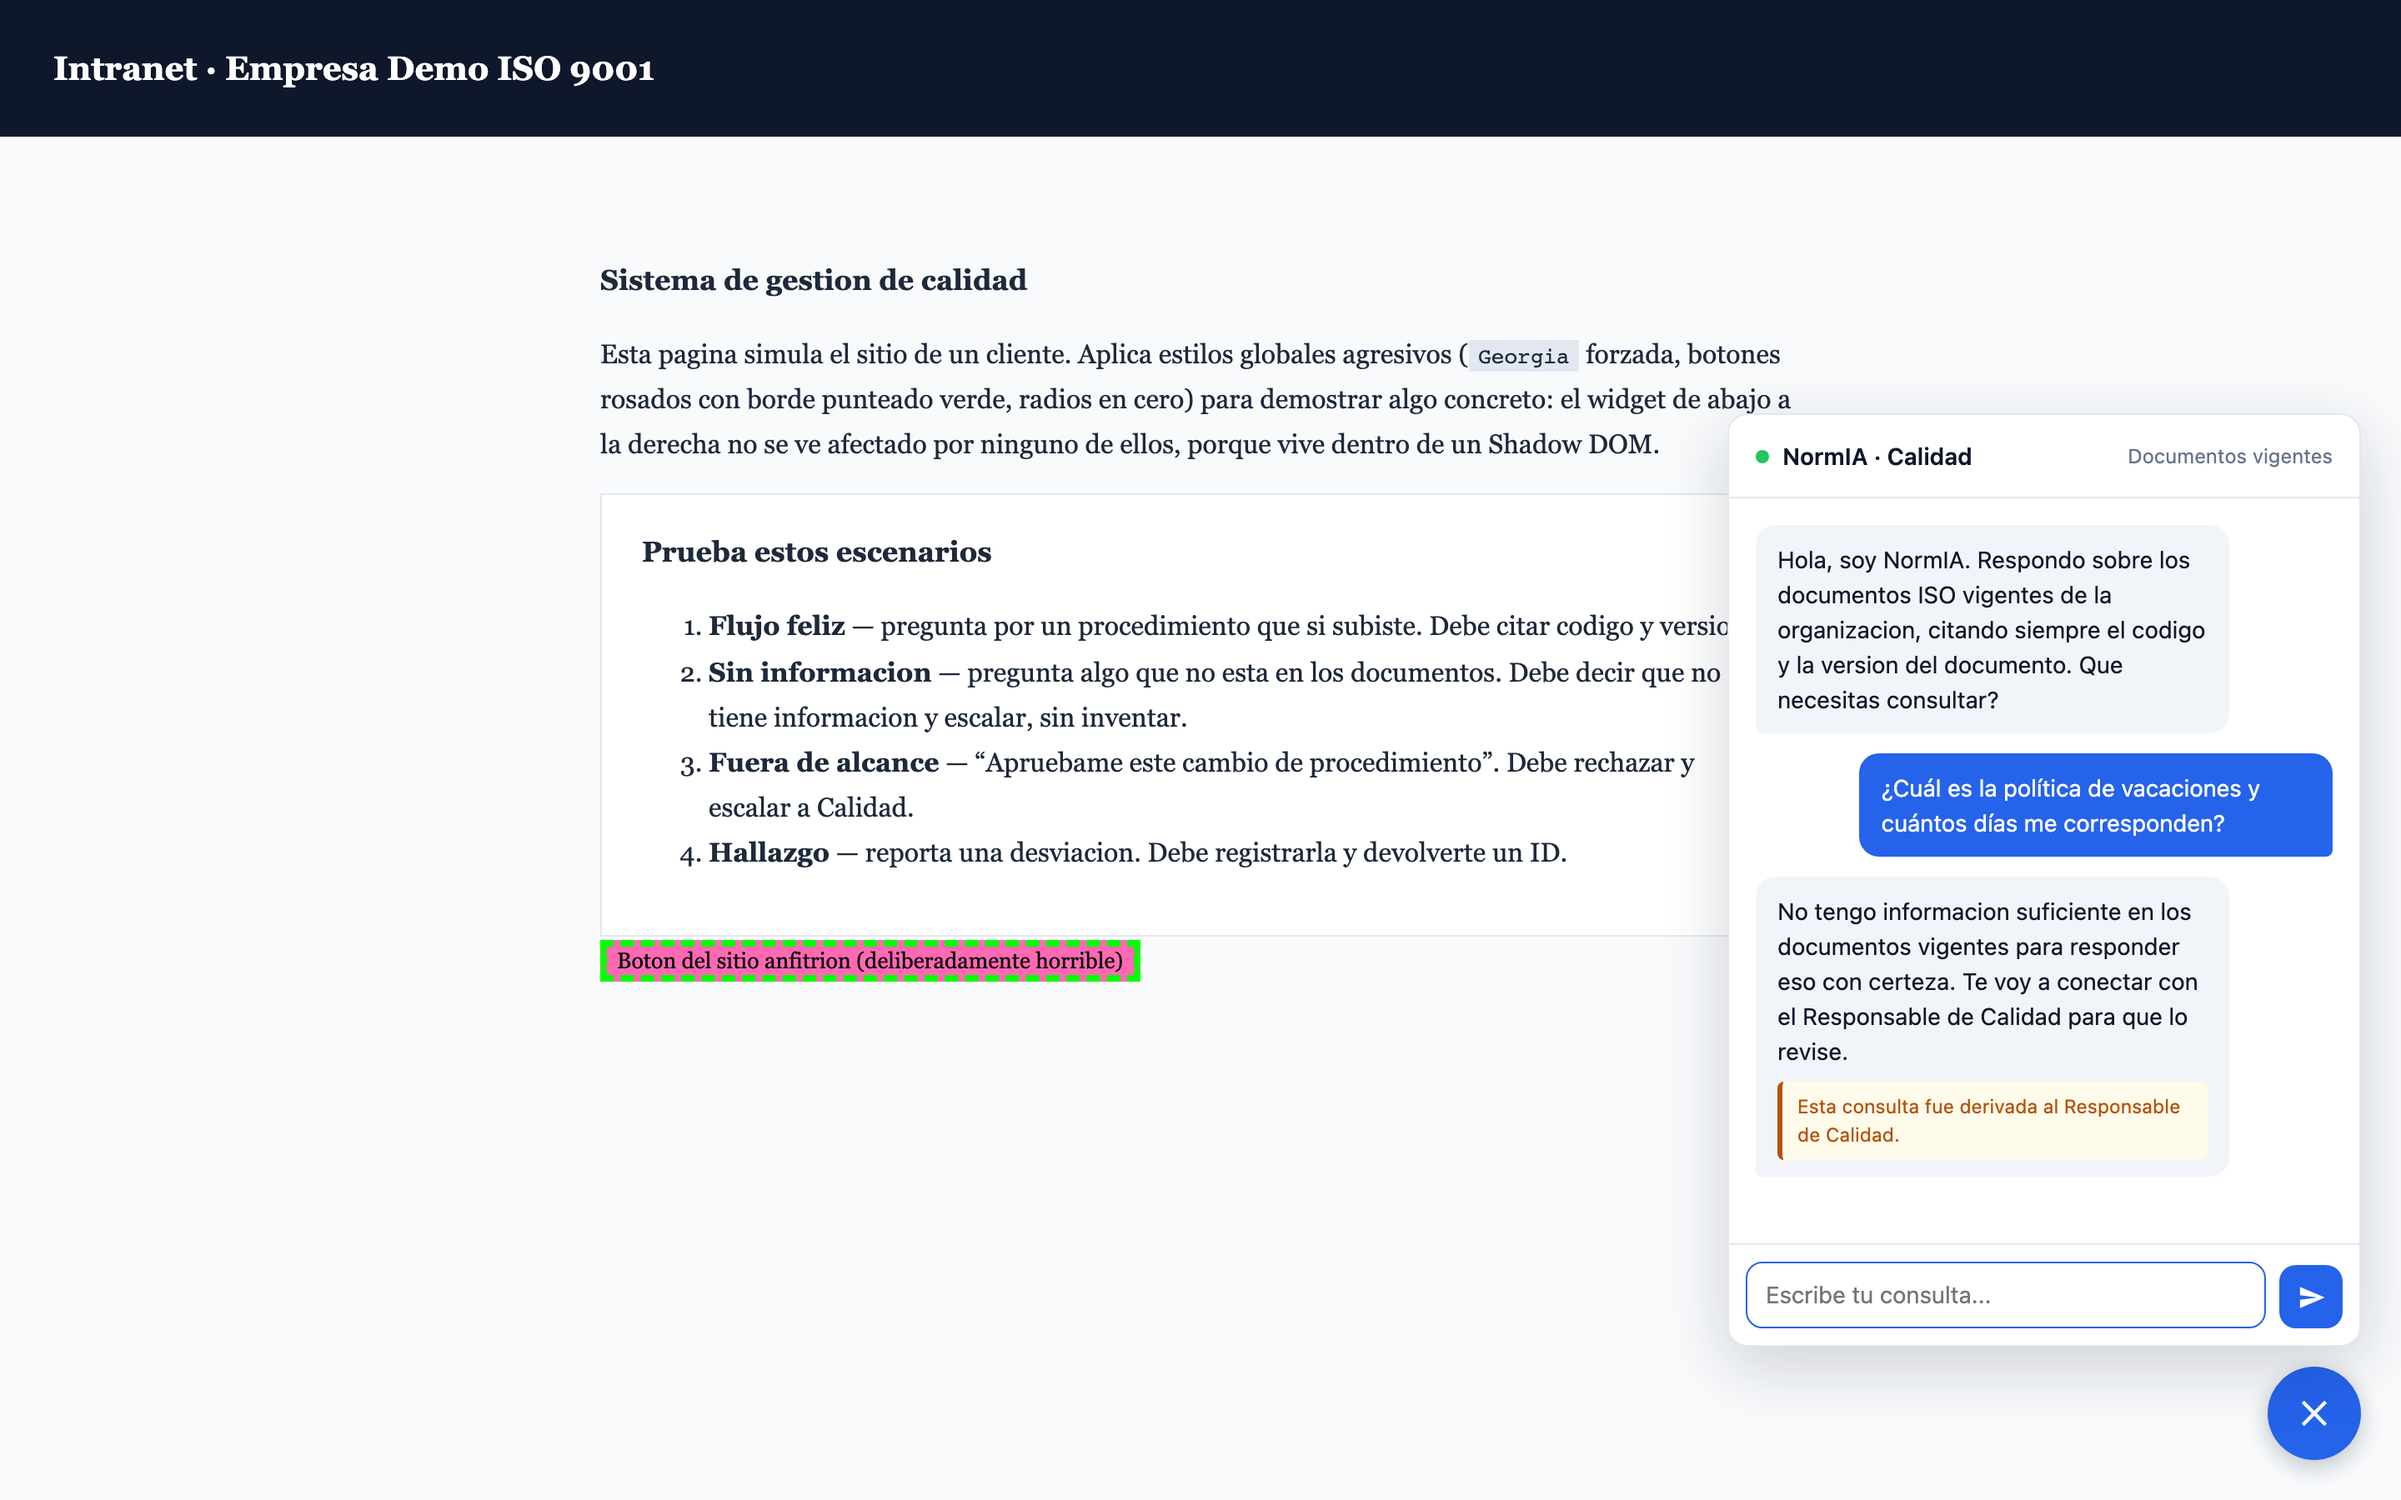
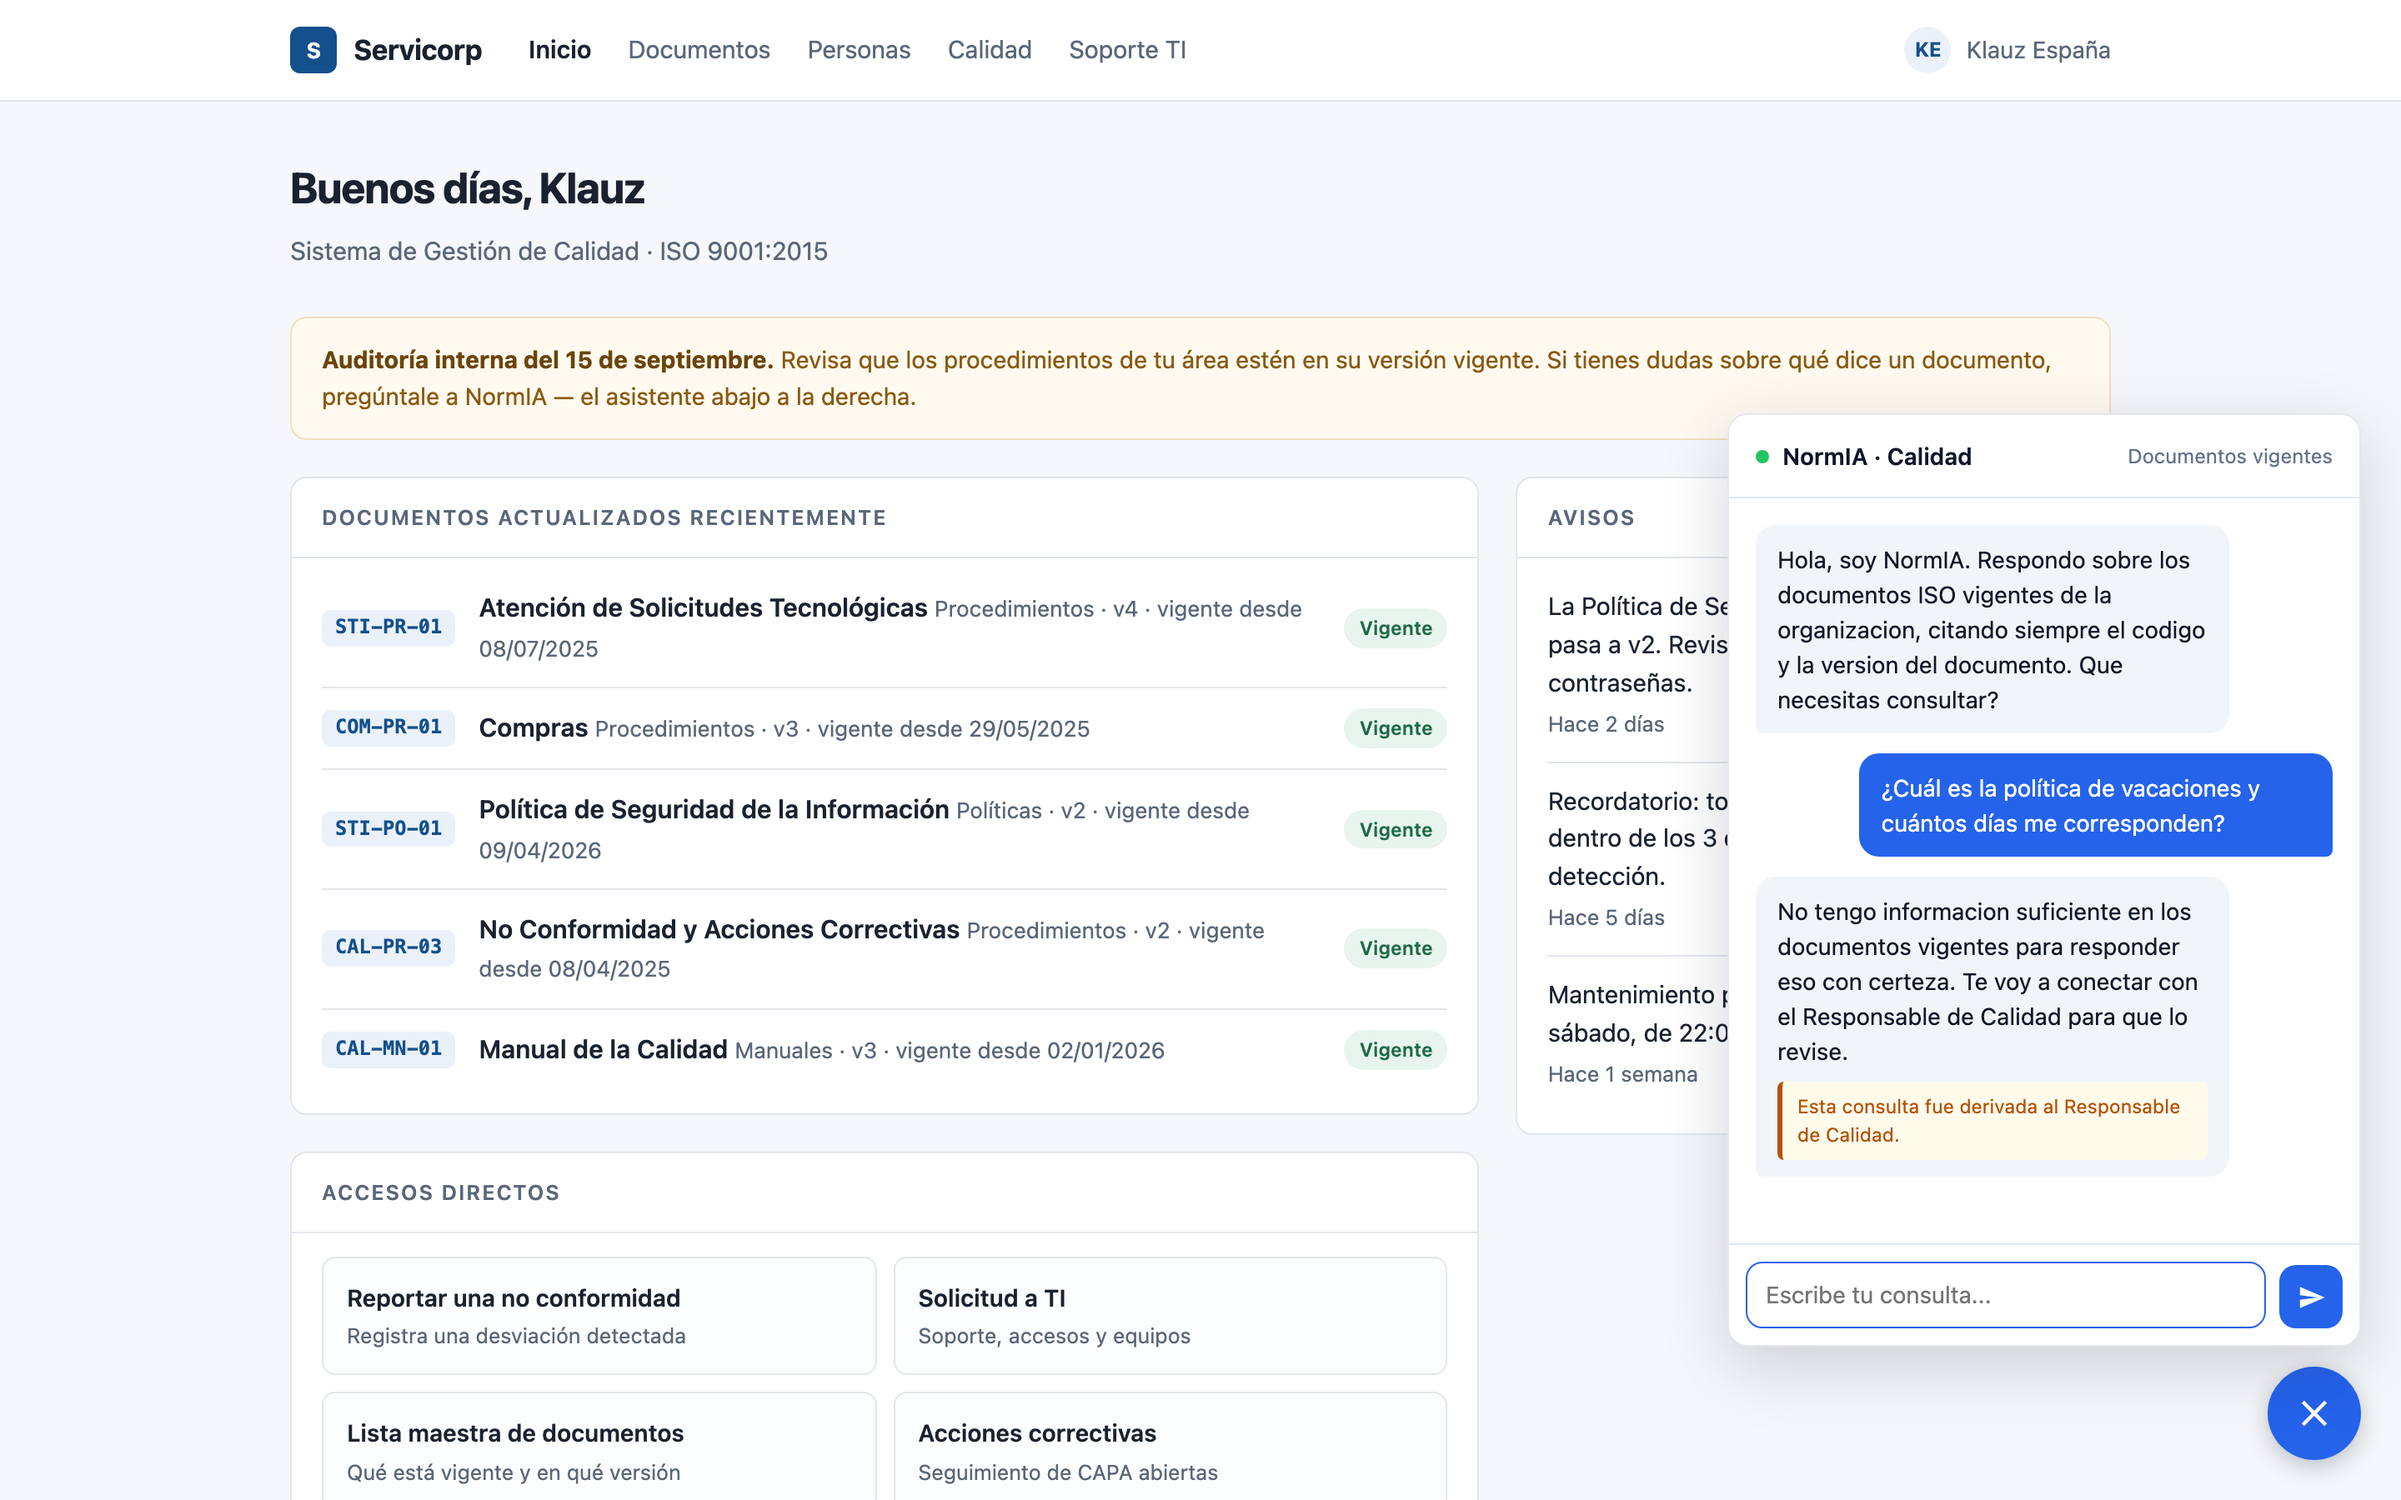
La pagina de demostracion pasa a ser una intranet creible
Era deliberadamente fea -- Georgia forzada, botones rosados, bordes punteados --
porque servia de banco de pruebas para demostrar que el Shadow DOM aisla al
widget. Cumplia su funcion tecnica, pero ante un tribunal juega en contra:
parece que el proyecto esta a medias.

Ahora es una intranet corporativa plausible, con los documentos del corpus
sintetico en portada. Eso ademas le da al publico algo concreto que preguntar:
los codigos que ve en pantalla son los que el asistente sabe responder.

El aislamiento del Shadow DOM sigue siendo cierto y se sigue pudiendo explicar;
lo que se pierde es la demostracion visual por contraste, que valia poco frente
a lo que costaba en credibilidad.

Se regeneran las capturas del README contra la pagina nueva y se corrige el pie
que describia la anterior. El footer deja claro que es un entorno de
demostracion con datos ficticios.

diff --git a/frontend-widget/demo.html b/frontend-widget/demo.html
@@ -1,60 +1,186 @@
 <!doctype html>
 <html lang="es">
 <head>
-  <meta charset="utf-8" />
-  <meta name="viewport" content="width=device-width, initial-scale=1" />
-  <title>Intranet Empresa Demo ISO 9001</title>
-  <style>
-    /* CSS agresivo a proposito: demuestra que el Shadow DOM aisla el widget.
-       Nada de esto lo afecta. */
-    * { font-family: Georgia, serif !important; }
-    body { margin: 0; background: #f8fafc; color: #1e293b; line-height: 1.7; }
-    button { background: hotpink !important; border: 4px dashed lime !important; }
-    div { border-radius: 0 !important; }
-    header { background: #0f172a; color: #fff; padding: 24px 32px; }
-    main { max-width: 720px; margin: 0 auto; padding: 40px 24px 120px; }
-    h1 { margin: 0; font-size: 20px; }
-    h2 { font-size: 17px; margin-top: 32px; }
-    code { background: #e2e8f0; padding: 2px 6px; font-family: monospace !important; }
-    .card { background: #fff; border: 1px solid #e2e8f0; padding: 20px 24px; margin-top: 16px; }
-  </style>
+<meta charset="utf-8">
+<meta name="viewport" content="width=device-width, initial-scale=1">
+<title>Intranet · Servicorp</title>
+<style>
+  :root{
+    --tinta:#1a2230; --suave:#5a6779; --linea:#e2e6ec; --fondo:#f5f7fa;
+    --panel:#ffffff; --marca:#14508c; --marca-clara:#eaf1f9; --ok:#1c6b45; --aviso:#8a5a10;
+  }
+  *{box-sizing:border-box}
+  body{
+    margin:0; background:var(--fondo); color:var(--tinta);
+    font:15px/1.55 -apple-system,BlinkMacSystemFont,"Segoe UI",Roboto,Helvetica,Arial,sans-serif;
+  }
+  a{color:var(--marca); text-decoration:none}
+  a:hover{text-decoration:underline}
+
+  header.top{background:var(--panel); border-bottom:1px solid var(--linea)}
+  .barra{max-width:1140px; margin:0 auto; padding:0 24px; display:flex; align-items:center; gap:28px; height:60px}
+  .logo{display:flex; align-items:center; gap:10px; font-weight:700; font-size:1.05rem; letter-spacing:-.01em}
+  .logo .cuadro{
+    width:28px; height:28px; border-radius:6px; background:var(--marca); color:#fff;
+    display:grid; place-items:center; font-size:.82rem; font-weight:700;
+  }
+  nav{display:flex; gap:22px; font-size:.92rem}
+  nav a{color:var(--suave)} nav a.activo{color:var(--tinta); font-weight:600}
+  .usuario{margin-left:auto; display:flex; align-items:center; gap:9px; font-size:.88rem; color:var(--suave)}
+  .avatar{width:28px; height:28px; border-radius:50%; background:var(--marca-clara); color:var(--marca);
+          display:grid; place-items:center; font-weight:700; font-size:.76rem}
+
+  main{max-width:1140px; margin:0 auto; padding:32px 24px 72px}
+  h1{font-size:1.6rem; margin:0 0 6px; letter-spacing:-.02em}
+  .sub{color:var(--suave); margin:0 0 28px}
+
+  .rejilla{display:grid; grid-template-columns:2fr 1fr; gap:22px; align-items:start}
+  @media (max-width:880px){ .rejilla{grid-template-columns:1fr} }
+
+  .tarjeta{background:var(--panel); border:1px solid var(--linea); border-radius:10px; overflow:hidden}
+  .tarjeta > h2{
+    font-size:.78rem; text-transform:uppercase; letter-spacing:.08em; color:var(--suave);
+    margin:0; padding:14px 18px; border-bottom:1px solid var(--linea); font-weight:600;
+  }
+  .tarjeta .cuerpo{padding:6px 18px 14px}
+
+  .doc{display:flex; align-items:center; gap:14px; padding:12px 0; border-bottom:1px solid var(--linea)}
+  .doc:last-child{border-bottom:0}
+  .doc .cod{
+    font:600 .74rem/1 ui-monospace,SFMono-Regular,Menlo,monospace; color:var(--marca);
+    background:var(--marca-clara); padding:5px 8px; border-radius:5px; white-space:nowrap;
+  }
+  .doc .txt{flex:1; min-width:0}
+  .doc .tit{font-weight:600; font-size:.95rem}
+  .doc .meta{color:var(--suave); font-size:.83rem}
+  .pill{font-size:.72rem; font-weight:600; padding:3px 9px; border-radius:20px; white-space:nowrap}
+  .pill.vig{background:#e8f4ee; color:var(--ok)}
+
+  ul.avisos{list-style:none; margin:0; padding:0}
+  ul.avisos li{padding:12px 0; border-bottom:1px solid var(--linea); font-size:.92rem}
+  ul.avisos li:last-child{border-bottom:0}
+  ul.avisos .cuando{color:var(--suave); font-size:.8rem; display:block; margin-top:3px}
+
+  .accesos{display:grid; grid-template-columns:1fr 1fr; gap:10px; padding:14px 18px}
+  .accesos a{
+    border:1px solid var(--linea); border-radius:8px; padding:13px 14px; font-size:.89rem;
+    font-weight:600; color:var(--tinta); background:#fcfdfe;
+  }
+  .accesos a:hover{border-color:var(--marca); color:var(--marca); text-decoration:none}
+  .accesos a span{display:block; font-weight:400; color:var(--suave); font-size:.79rem; margin-top:2px}
+
+  .nota{
+    background:#fffaf0; border:1px solid #f0e0c0; border-radius:10px; padding:14px 18px;
+    font-size:.89rem; color:var(--aviso); margin-bottom:22px;
+  }
+  .nota b{color:#6b4508}
+
+  footer{border-top:1px solid var(--linea); margin-top:44px; padding-top:18px;
+         color:var(--suave); font-size:.82rem; display:flex; justify-content:space-between; gap:16px; flex-wrap:wrap}
+</style>
 </head>
 <body>
-  <header><h1>Intranet &middot; Empresa Demo ISO 9001</h1></header>
 
-  <main>
-    <h2>Sistema de gestion de calidad</h2>
-    <p>
-      Esta pagina simula el sitio de un cliente. Aplica estilos globales agresivos
-      (<code>Georgia</code> forzada, botones rosados con borde punteado verde, radios
-      en cero) para demostrar algo concreto: el widget de abajo a la derecha no se
-      ve afectado por ninguno de ellos, porque vive dentro de un Shadow DOM.
-    </p>
+<header class="top">
+  <div class="barra">
+    <div class="logo"><span class="cuadro">S</span> Servicorp</div>
+    <nav>
+      <a href="#" class="activo">Inicio</a>
+      <a href="#">Documentos</a>
+      <a href="#">Personas</a>
+      <a href="#">Calidad</a>
+      <a href="#">Soporte TI</a>
+    </nav>
+    <div class="usuario"><span class="avatar">KE</span> Klauz España</div>
+  </div>
+</header>
 
-    <div class="card">
-      <h2 style="margin-top:0">Prueba estos escenarios</h2>
-      <ol>
-        <li><strong>Flujo feliz</strong> &mdash; pregunta por un procedimiento que si subiste.
-            Debe citar codigo y version.</li>
-        <li><strong>Sin informacion</strong> &mdash; pregunta algo que no esta en los documentos.
-            Debe decir que no tiene informacion y escalar, sin inventar.</li>
-        <li><strong>Fuera de alcance</strong> &mdash; &ldquo;Apruebame este cambio de
-            procedimiento&rdquo;. Debe rechazar y escalar a Calidad.</li>
-        <li><strong>Hallazgo</strong> &mdash; reporta una desviacion. Debe registrarla
-            y devolverte un ID.</li>
-      </ol>
+<main>
+  <h1>Buenos días, Klauz</h1>
+  <p class="sub">Sistema de Gestión de Calidad · ISO 9001:2015</p>
+
+  <div class="nota">
+    <b>Auditoría interna del 15 de septiembre.</b> Revisa que los procedimientos de tu área
+    estén en su versión vigente. Si tienes dudas sobre qué dice un documento, pregúntale a
+    NormIA — el asistente abajo a la derecha.
+  </div>
+
+  <div class="rejilla">
+    <div style="display:flex; flex-direction:column; gap:22px">
+      <section class="tarjeta">
+        <h2>Documentos actualizados recientemente</h2>
+        <div class="cuerpo">
+          <div class="doc">
+            <span class="cod">STI-PR-01</span>
+            <span class="txt"><span class="tit">Atención de Solicitudes Tecnológicas</span>
+              <span class="meta">Procedimientos · v4 · vigente desde 08/07/2025</span></span>
+            <span class="pill vig">Vigente</span>
+          </div>
+          <div class="doc">
+            <span class="cod">COM-PR-01</span>
+            <span class="txt"><span class="tit">Compras</span>
+              <span class="meta">Procedimientos · v3 · vigente desde 29/05/2025</span></span>
+            <span class="pill vig">Vigente</span>
+          </div>
+          <div class="doc">
+            <span class="cod">STI-PO-01</span>
+            <span class="txt"><span class="tit">Política de Seguridad de la Información</span>
+              <span class="meta">Políticas · v2 · vigente desde 09/04/2026</span></span>
+            <span class="pill vig">Vigente</span>
+          </div>
+          <div class="doc">
+            <span class="cod">CAL-PR-03</span>
+            <span class="txt"><span class="tit">No Conformidad y Acciones Correctivas</span>
+              <span class="meta">Procedimientos · v2 · vigente desde 08/04/2025</span></span>
+            <span class="pill vig">Vigente</span>
+          </div>
+          <div class="doc">
+            <span class="cod">CAL-MN-01</span>
+            <span class="txt"><span class="tit">Manual de la Calidad</span>
+              <span class="meta">Manuales · v3 · vigente desde 02/01/2026</span></span>
+            <span class="pill vig">Vigente</span>
+          </div>
+        </div>
+      </section>
+
+      <section class="tarjeta">
+        <h2>Accesos directos</h2>
+        <div class="accesos">
+          <a href="#">Reportar una no conformidad<span>Registra una desviación detectada</span></a>
+          <a href="#">Solicitud a TI<span>Soporte, accesos y equipos</span></a>
+          <a href="#">Lista maestra de documentos<span>Qué está vigente y en qué versión</span></a>
+          <a href="#">Acciones correctivas<span>Seguimiento de CAPA abiertas</span></a>
+        </div>
+      </section>
     </div>
 
-    <button>Boton del sitio anfitrion (deliberadamente horrible)</button>
-  </main>
+    <section class="tarjeta">
+      <h2>Avisos</h2>
+      <div class="cuerpo">
+        <ul class="avisos">
+          <li>La Política de Seguridad de la Información pasa a v2. Revisa los requisitos de contraseñas.
+            <span class="cuando">Hace 2 días</span></li>
+          <li>Recordatorio: toda no conformidad se registra dentro de los 3 días hábiles siguientes a su detección.
+            <span class="cuando">Hace 5 días</span></li>
+          <li>Mantenimiento programado de servidores el sábado, de 22:00 a 02:00.
+            <span class="cuando">Hace 1 semana</span></li>
+        </ul>
+      </div>
+    </section>
+  </div>
 
-  <script src="widget.js"></script>
-  <normia-chat-widget api-url="" tenant-id="demo-publica">
-  </normia-chat-widget>
-  <script>
-    // ?tenant=otro para probar contra otro SGC sin tocar el archivo
-    const t = new URLSearchParams(location.search).get("tenant");
-    if (t) document.querySelector("normia-chat-widget").setAttribute("tenant-id", t);
-  </script>
+  <footer>
+    <span>Servicorp · Intranet corporativa</span>
+    <span>Entorno de demostración · datos y documentos ficticios</span>
+  </footer>
+</main>
+
+<script src="widget.js"></script>
+<normia-chat-widget api-url="" tenant-id="demo-publica"></normia-chat-widget>
+<script>
+  // ?tenant=otro para probar contra otro SGC sin tocar el archivo
+  const t = new URLSearchParams(location.search).get("tenant");
+  if (t) document.querySelector("normia-chat-widget").setAttribute("tenant-id", t);
+</script>
 </body>
 </html>

diff --git a/README.md b/README.md
@@ -150,10 +150,10 @@ repositorio (`demo-publica`), con el modelo en local.
 
 ![Respuesta con cita](docs/capturas/02-respuesta-con-cita.png)
 
-La pagina anfitriona fuerza `Georgia`, botones rosados y bordes punteados; el
-widget no se entera, porque vive dentro de un Shadow DOM. La respuesta lleva el
-dato en negrita, y debajo la referencia con el titulo por delante -- el codigo y
-la version quedan como respaldo, no como protagonistas.
+El widget se integra en la intranet del cliente sin heredar ni imponer estilos:
+vive dentro de un Shadow DOM, asi que ni el sitio lo despeina ni el rompe el sitio.
+La respuesta lleva el dato en negrita, y debajo la referencia con el titulo por
+delante -- el codigo y la version quedan como respaldo, no como protagonistas.
 
 ### El guardrail cuando no hay respaldo
 
